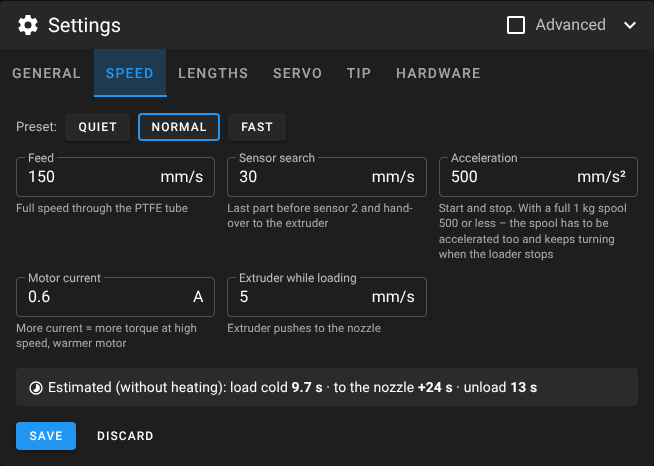
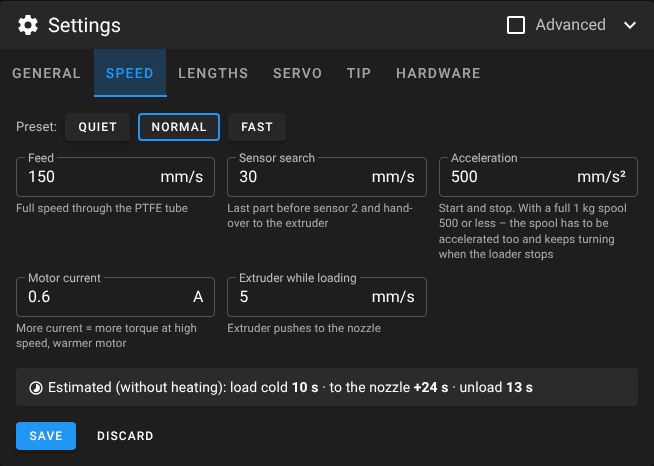
Generous tolerances: hand-over from sensor 2, robust fine search
- Loader and extruder move together from sensor 2 on, so the extruder gears
  turn long before the tip arrives, independent of how exact gear_offset is
- Fine search: after the coarse search the loader backs off until sensor 2
  is really free (filament snakes in the 3 mm PTFE bore) before searching
  again; larger window
- Prepared filament stops only ~2.5 mm past sensor 2; the cold pull-out
  goes back to that point, well clear of the extruder gears
- Simulated with up to 9 mm slack on direction changes: positions stay
  within the search step
- README: tolerances section

Claude-Session: https://claude.ai/code/session_01VDtPnBwXqHuwKHs624Dn1u

Changed region(s): [[0.4281, 0.8112, 0.8257, 0.8412]]

diff --git a/web/index.html b/web/index.html
@@ -1786,8 +1786,7 @@ function filamentModel() {
   let head, tail = 0, moving = false, dir = 1, text, warnTxt = false;
   if (s2 || (!s2o && ["sensor2", "gears", "nozzle"].includes(pos))) {
     tail = s1 ? 0 : 1.15;
-    const go = +v.gear_offset || 8, lead = Math.min(4, go);
-    const push = Math.max(go - lead, 0) / (+v.slow_speed || 10) + (lead + (+v.gear_push || 3) + (+v.grip_len || 0)) / (+v.grip_speed || 5);
+    const push = ((+v.gear_offset || 8) + (+v.gear_push || 3) + (+v.grip_len || 0)) / (+v.grip_speed || 5);
     if (st.op === "measure" && !run) { head = 3 + Math.min(1, MS.gear / ((+v.gear_offset || 8) + (+v.gear_push || 3))); text = "Filament steht an Sensor 2 (Messung)"; }
     else if (loading && st.op === "prepare") { head = 3.2; text = "Filament an Sensor 2 – Loader löst …"; }
     else if (loading && !PATH.extT) {
@@ -1959,7 +1958,7 @@ const GROUPS = [
     F("tube_len", ["Loader → Sensor 2", "Loader → sensor 2"], "mm", ["Loader-Zahnräder bis Sensor 2 – unter „Längen messen“ ermitteln", "Loader gears to sensor 2 – measure it under “Measure lengths”"], { min: 20, max: 3000, st: 1 }),
     F("gear_offset", ["Sensor 2 → Zahnräder", "Sensor 2 → gears"], "mm", ["Bis die Spitze an den Extruder-Zahnrädern ansteht", "Until the tip touches the extruder gears"], { min: 0, max: 100, st: 0.5 }),
     F("gear_push", ["In die Zahnräder schieben", "Push into the gears"], "mm", ["Zusätzlich, damit der Extruder sicher greift", "Extra, so the extruder grips reliably"], { min: 0, max: 20, st: 0.5 }),
-    F("grip_len", ["Kalt greifen", "Cold grip"], "mm", ["So weit zieht der Extruder das Filament nach der Übergabe kalt ein. Die Übergabe selbst läuft immer mit drehendem Extruder: der Loader stoppt kurz vor den Zahnrädern, dann schieben beide gemeinsam. 0 = nur übergeben. Braucht [force_move]", "How far the extruder pulls the filament in cold after the hand-over. The hand-over itself always runs with the extruder turning: the loader stops just before the gears, then both push together. 0 = hand-over only. Needs [force_move]"], { min: 0, max: 20, st: 1 }),
+    F("grip_len", ["Kalt greifen", "Cold grip"], "mm", ["So weit zieht der Extruder das Filament nach der Übergabe kalt ein. Die Übergabe selbst läuft immer mit drehendem Extruder: ab Sensor 2 schieben Loader und Extruder gemeinsam. 0 = nur übergeben. Braucht [force_move]", "How far the extruder pulls the filament in cold after the hand-over. The hand-over itself always runs with the extruder turning: from sensor 2 on, loader and extruder push together. 0 = hand-over only. Needs [force_move]"], { min: 0, max: 20, st: 1 }),
     F("ext_to_nozzle", ["Zahnräder → Düse", "Gears → nozzle"], "mm", ["So weit fördert der Extruder beim Laden heiß", "The extruder feeds this far when loading hot"], { min: 5, max: 300, st: 1 }),
     F("purge_len", ["Ausspülen", "Purge"], "mm", ["Nach dem Laden heiß, 0 = aus", "After loading hot, 0 = off"], { min: 0, max: 300, st: 1 }),
     F("unload_ext_len", ["Extruder zieht zurück", "Extruder retracts"], "mm", ["Beim Entladen insgesamt ab Düse, inklusive Spitze formen", "When unloading, in total from the nozzle, incl. tip forming"], { min: 5, max: 300, st: 1 }),
@@ -2227,10 +2226,9 @@ function drawEstimate(v) {
   const over = 0.2, stepT = mv(n("step_mm"), n("slow_speed")) + over;
   const coarse = Math.max(n("tube_len") - n("approach"), 0);
   const cstep = Math.max(Math.min(5, n("gear_offset") - 2), n("step_mm"), 0.5), cspeed = Math.min(n("speed"), 60) || 30;
-  const lead = Math.min(4, n("gear_offset"));
   const cold = 2 * n("servo_settle") + mv(coarse, n("speed")) + (n("approach") / cstep) * (mv(cstep, cspeed) + over) +
     mv(cstep + 3, n("slow_speed")) + ((cstep + 3) / Math.max(n("step_mm"), 0.1)) * stepT +
-    mv(Math.max(n("gear_offset") - lead, 0), n("slow_speed")) + (lead + n("gear_push") + n("grip_len")) / Math.max(n("grip_speed"), 0.5);
+    (n("gear_offset") + n("gear_push") + n("grip_len")) / Math.max(n("grip_speed"), 0.5);
   const hot = n("ext_to_nozzle") / Math.max(n("ext_speed"), 0.1) + n("purge_len") / Math.max(n("purge_speed"), 0.1);
   let tip = 0;
   if (+m.tip_enable) {

diff --git a/README.md b/README.md
@@ -112,14 +112,19 @@ steps, so the tip is never more than `step_mm` past the sensor. *Prepare* stops 
 extrudes the rest of `ext_to_nozzle` plus the purge (`nozzle`). Each one continues from wherever the filament is –
 from parked or prepared it only feeds the remaining distance.
 
-**Hand-over to the extruder.** The loader alone only pushes until the tip is 4 mm before the extruder gears
-(`gear_offset`). From there loader and extruder move together at `grip_speed` – the extruder gears are already
-turning when the tip arrives, so it is pulled in instead of being pushed against standing gears – through
-`gear_push` and another `grip_len` mm. Klipper refuses extruder moves below `min_extrude_temp`; `FORCE_MOVE` drives
-the extruder stepper directly and is not limited by that, so this works with a cold nozzle. It needs `[force_move]`
-with `enable_force_move: True` (the installer adds it; it also enables `SET_KINEMATIC_POSITION`). The filament only
-moves a few mm into the cold heatsink, nothing is extruded. Without `[force_move]` the extruder motor is switched off
-during the hand-over, so its gears can at least turn freely.
+**Hand-over to the extruder.** From sensor 2 on, loader and extruder move together at `grip_speed` – the extruder
+gears are already turning long before the tip arrives, so it is pulled in instead of being pushed against standing
+gears, however exact `gear_offset` is. They move through `gear_offset + gear_push` and another `grip_len` mm. Klipper
+refuses extruder moves below `min_extrude_temp`; `FORCE_MOVE` drives the extruder stepper directly and is not limited
+by that, so this works with a cold nozzle. It needs `[force_move]` with `enable_force_move: True` (the installer adds
+it; it also enables `SET_KINEMATIC_POSITION`). The filament only moves a few mm into the cold heatsink, nothing is
+extruded. Without `[force_move]` the extruder motor is switched off during the hand-over, so its gears can at least
+turn freely.
+
+**Tolerances.** In a PTFE tube with 3 mm bore the filament snakes a little, so pushing and pulling the same distance
+can differ by a few mm. The macros never rely on the exact length: every load and unload is referenced at sensor 2,
+after the coarse search the loader backs off until sensor 2 is really free before the fine search, the search windows
+have tens of mm of reserve, and prepared filament stops only a couple of mm past sensor 2, well before the gears.
 
 **Unload / park.** First the macros decide whether the filament can be molten in the nozzle: yes if it was loaded
 hot, or if the extruder has extruded since it was prepared or gripped (`toolhead.position.e` is compared with the
